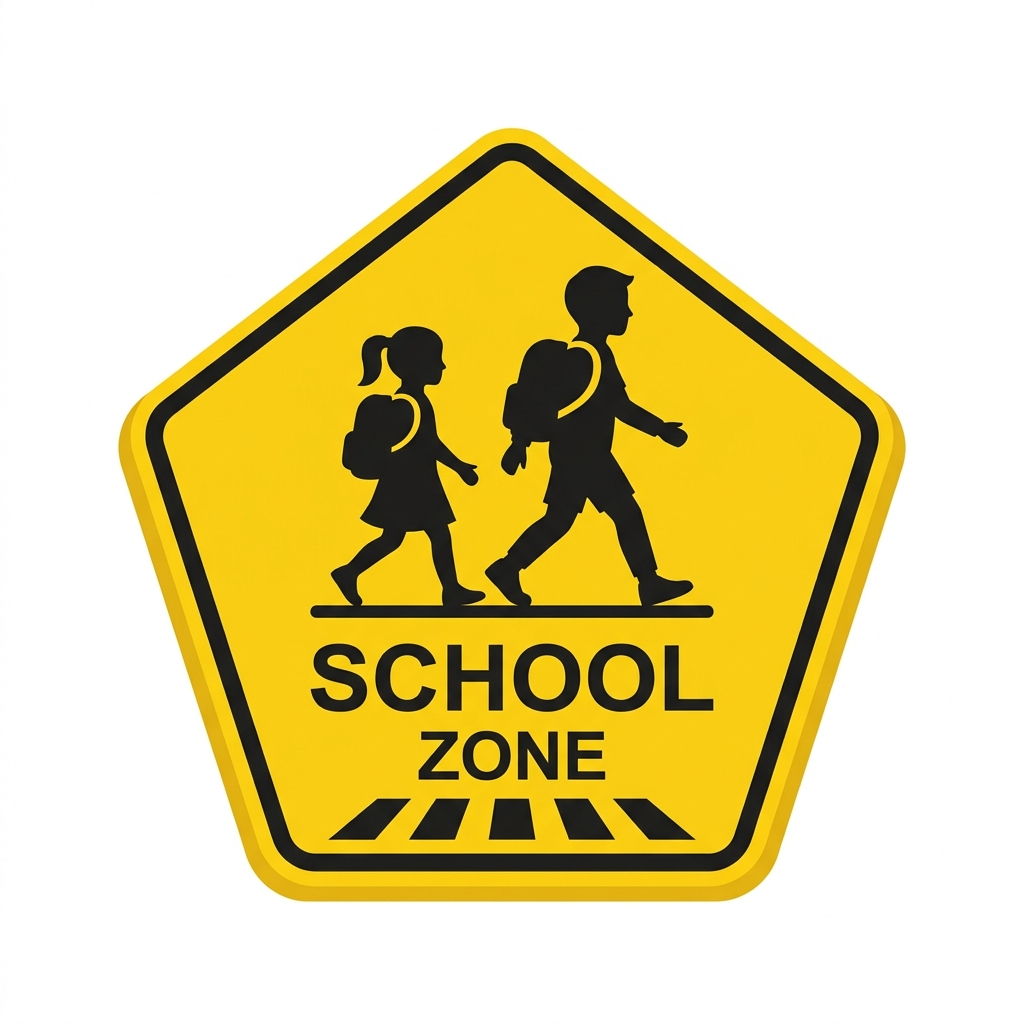
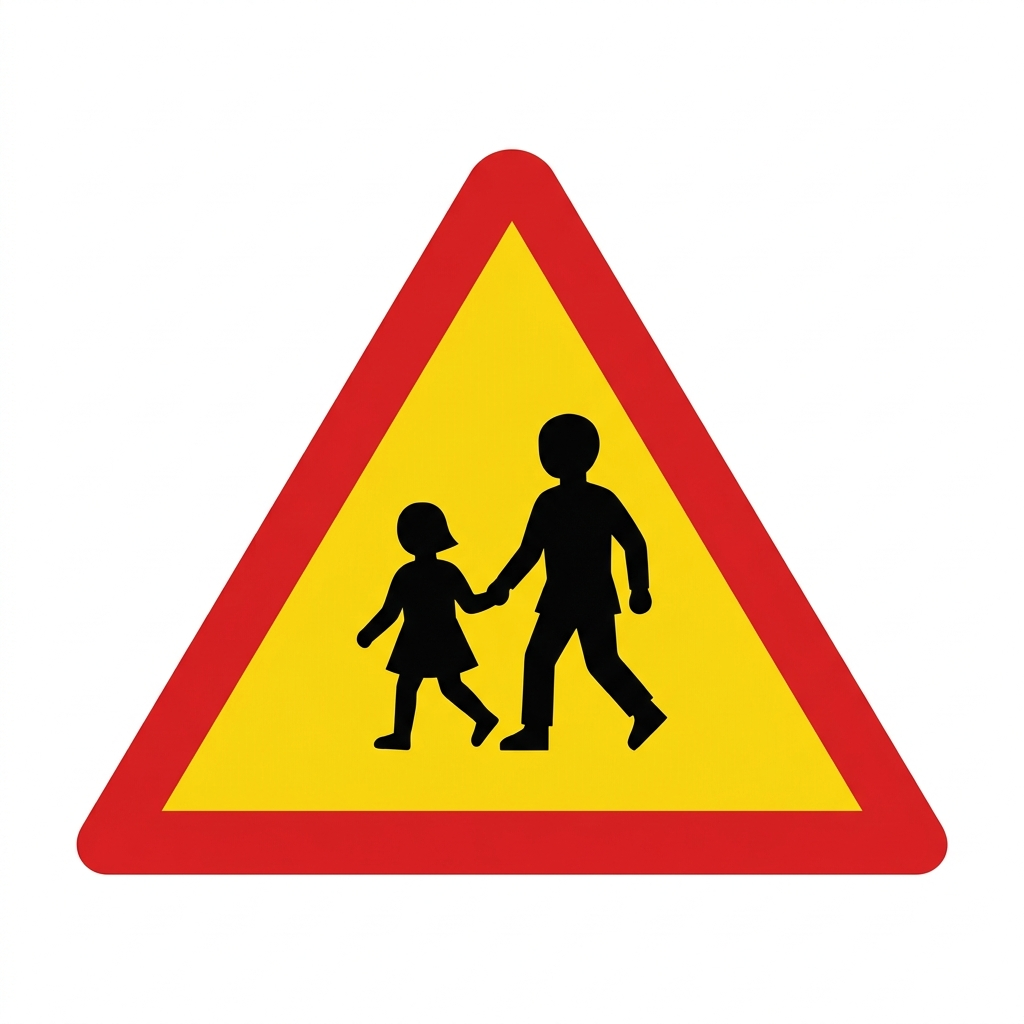
Update sign_E8 to Vietnamese standard children crossing sign and sign_E9 to Vietnamese standard no parking sign

diff --git a/tracnghiem_exams.js b/tracnghiem_exams.js
@@ -2406,7 +2406,7 @@ const TRACNGHIEM_EXAMS = [
             ],
             "modelAnswer": "A",
             "rubric": "Chọn đúng A.",
-            "explanation": "Biển báo trẻ em dắt tay nhau qua đường, cảnh báo khu vực trường học có trẻ em sang đường, yêu cầu lái xe giảm tốc độ quan sát."
+            "explanation": "Biển báo nguy hiểm: Trẻ em (Biển W.225). Cảnh báo đoạn đường thường có trẻ em đi ngang qua như khu vực trường học, yêu cầu lái xe đi chậm quan sát."
           },
           {
             "id": "TN8_12",
@@ -2723,7 +2723,7 @@ const TRACNGHIEM_EXAMS = [
             ],
             "modelAnswer": "C",
             "rubric": "Chọn đúng C.",
-            "explanation": "Biển báo cấm đỗ xe (No Parking), yêu cầu lái xe không được đỗ phương tiện tại khu vực có cắm biển."
+            "explanation": "Biển báo cấm đỗ xe (Biển P.131a). Cấm tất cả các phương tiện giao thông đỗ ở đường có đặt biển (vẫn được phép dừng xe trong thời gian ngắn)."
           },
           {
             "id": "TN9_12",